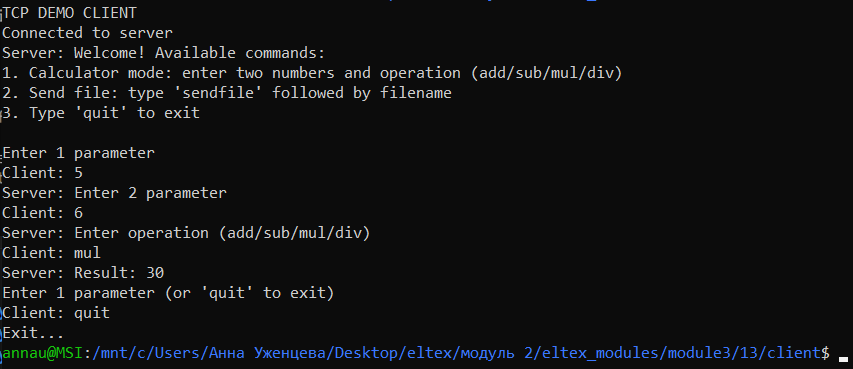
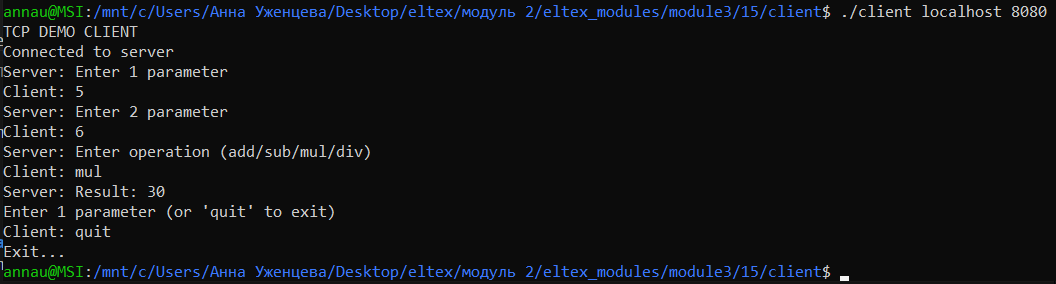
13

Changed region(s): [[0.0, 0.0, 1.0, 0.9859]]

diff --git a/module3/13/server/tcp_server.c b/module3/13/server/tcp_server.c
@@ -9,17 +9,13 @@
 #include <arpa/inet.h>
 #include <fcntl.h>
 
-// функция обслуживания подключившихся пользователей
 void dostuff(int);
-// функция обработки ошибок
 void error(const char *msg) {
     perror(msg);
     exit(1);
 }
-// количество активных пользователей
 int nclients = 0;
 
-// печать количества активных пользователей
 void printusers() {
     if (nclients) {
         printf("%d user on-line\n", nclients);
@@ -28,13 +24,11 @@ void printusers() {
     }
 }
 
-// функция обработки данных
 int add_func(int a, int b) { return a + b; }
 int sub_func(int a, int b) { return a - b; }
 int mul_func(int a, int b) { return a * b; }
 int div_func(int a, int b) { return a / b; }
 
-// функция для приема файла
 void receive_file(int sock, const char* filename) {
     FILE *file = fopen(filename, "wb");
     if (!file) {
@@ -46,14 +40,13 @@ void receive_file(int sock, const char* filename) {
     char buffer[4096];
     ssize_t bytes_received;
     long file_size;
-    
-    // Получаем размер файла
+
     if (recv(sock, &file_size, sizeof(file_size), 0) <= 0) {
         fclose(file);
         return;
     }
     
-    send(sock, "READY", 5, 0);  // Подтверждаем готовность принять файл
+    send(sock, "READY", 5, 0);
     
     long total_received = 0;
     while (total_received < file_size) {
@@ -70,48 +63,42 @@ void receive_file(int sock, const char* filename) {
 }
 
 int main(int argc, char *argv[]) {
-    int sockfd, newsockfd; // дескрипторы сокетов
-    int portno;            // номер порта
-    int pid;               // id номер потока
-    socklen_t clilen; // размер адреса клиента типа socklen_t
-    struct sockaddr_in serv_addr, cli_addr; // структура сокета сервера и клиента
+    int sockfd, newsockfd;
+    int portno;
+    int pid;
+    socklen_t clilen;
+    struct sockaddr_in serv_addr, cli_addr;
     
     printf("TCP SERVER DEMO\n");
     
-    // ошибка в случае если мы не указали порт
     if (argc < 2) {
         fprintf(stderr, "ERROR, no port provided\n");
         exit(1);
     }
     
-    // Шаг 1 - создание сокета
     sockfd = socket(AF_INET, SOCK_STREAM, 0);
     if (sockfd < 0)
         error("ERROR opening socket");
     
-    // Шаг 2 - связывание сокета с локальным адресом
     bzero((char *)&serv_addr, sizeof(serv_addr));
     portno = atoi(argv[1]);
     serv_addr.sin_family = AF_INET;
-    serv_addr.sin_addr.s_addr = INADDR_ANY; // сервер принимает подключения на все IP-адреса
+    serv_addr.sin_addr.s_addr = INADDR_ANY;
     serv_addr.sin_port = htons(portno);
     
     if (bind(sockfd, (struct sockaddr *)&serv_addr, sizeof(serv_addr)) < 0)
         error("ERROR on binding");
     
-    // Шаг 3 - ожидание подключений, размер очереди - 5
     listen(sockfd, 5);
     clilen = sizeof(cli_addr);
     
-    // Шаг 4 - извлекаем сообщение из очереди (цикл извлечения запросов на подключение)
     while (1) {
         newsockfd = accept(sockfd, (struct sockaddr *)&cli_addr, &clilen);
         if (newsockfd < 0)
             error("ERROR on accept");
         
         nclients++;
-        
-        // вывод сведений о клиенте
+
         printf("+[%s:%d] new connect!\n", inet_ntoa(cli_addr.sin_addr), ntohs(cli_addr.sin_port));
         printusers();
         
@@ -133,18 +120,9 @@ int main(int argc, char *argv[]) {
 }
 
 void dostuff(int sock) {
-    int bytes_recv; // размер принятого сообщения
-    int a, b;       // переменные для функций
+    int bytes_recv; 
+    int a, b; 
     char buff[1024];
-    
-    // Отправляем приветствие и список команд
-    char *welcome_msg = "Welcome! Available commands:\n"
-                        "1. Calculator mode: enter two numbers and operation (add/sub/mul/div)\n"
-                        "2. Send file: type 'sendfile' followed by filename\n"
-                        "3. Type 'quit' to exit\n\n"
-                        "Enter 1 parameter\r\n";
-    
-    send(sock, welcome_msg, strlen(welcome_msg), 0);
     
     while (1) {
         bzero(buff, sizeof(buff));
@@ -156,33 +134,26 @@ void dostuff(int sock) {
         
         buff[bytes_recv] = '\0';
         
-        // Убираем символ новой строки в конце
         if (buff[strlen(buff)-1] == '\n') {
             buff[strlen(buff)-1] = '\0';
         }
         
-        // Проверка на quit
         if (strcmp(buff, "quit") == 0) {
-            send(sock, "Goodbye!\n", 9, 0);
             break;
         }
         
-        // Проверка на команду отправки файла
         if (strncmp(buff, "sendfile ", 9) == 0) {
             char filename[256];
             strcpy(filename, buff + 9);
             send(sock, "READY to receive file\n", 22, 0);
             receive_file(sock, filename);
             
-            // Возвращаемся в режим калькулятора
             send(sock, "File received. Enter 1 parameter\r\n", 35, 0);
             continue;
         }
-        
-        // Режим калькулятора - получаем первый параметр
+
         a = atoi(buff);
         
-        // Запрашиваем второй параметр
         send(sock, "Enter 2 parameter\r\n", 20, 0);
         
         bzero(buff, sizeof(buff));
@@ -193,7 +164,6 @@ void dostuff(int sock) {
         
         b = atoi(buff);
         
-        // Запрашиваем операцию
         send(sock, "Enter operation (add/sub/mul/div)\r\n", 35, 0);
         
         bzero(buff, sizeof(buff));
@@ -233,7 +203,7 @@ void dostuff(int sock) {
         send(sock, "Enter 1 parameter (or 'quit' to exit)\r\n", 40, 0);
     }
     
-    nclients--; // уменьшаем счетчик активных клиентов
+    nclients--;
     printf("-disconnect\n");
     printusers();
     close(sock);

diff --git a/module3/13/client/tcp_client.c b/module3/13/client/tcp_client.c
@@ -14,7 +14,6 @@ void error(const char *msg) {
     exit(0);
 }
 
-// Функция для отправки файла
 void send_file(int sock, const char* filename) {
     FILE *file = fopen(filename, "rb");
     if (!file) {
@@ -23,22 +22,18 @@ void send_file(int sock, const char* filename) {
         return;
     }
     
-    // Получаем размер файла
     fseek(file, 0, SEEK_END);
     long file_size = ftell(file);
     fseek(file, 0, SEEK_SET);
     
-    // Отправляем размер файла
     send(sock, &file_size, sizeof(file_size), 0);
     
-    // Ждем подтверждения от сервера
     char ack[10];
     if (recv(sock, ack, sizeof(ack), 0) <= 0) {
         fclose(file);
         return;
     }
     
-    // Отправляем файл
     char buffer[4096];
     size_t bytes_read;
     long total_sent = 0;
@@ -67,39 +62,31 @@ int main(int argc, char *argv[]) {
         exit(0);
     }
     
-    // извлечение порта
     portno = atoi(argv[2]);
     
-    // Шаг 1 - создание сокета
     my_sock = socket(AF_INET, SOCK_STREAM, 0);
     if (my_sock < 0)
         error("ERROR opening socket");
     
-    // извлечение хоста
     server = gethostbyname(argv[1]);
     if (server == NULL) {
         fprintf(stderr, "ERROR, no such host\n");
         exit(0);
     }
     
-    // заполнение структуры serv_addr
     bzero((char *)&serv_addr, sizeof(serv_addr));
     serv_addr.sin_family = AF_INET;
     bcopy((char *)server->h_addr, (char *)&serv_addr.sin_addr.s_addr,
           server->h_length);
     
-    // установка порта
     serv_addr.sin_port = htons(portno);
     
-    // Шаг 2 - установка соединения
     if (connect(my_sock, (struct sockaddr *)&serv_addr, sizeof(serv_addr)) < 0)
         error("ERROR connecting");
     
     printf("Connected to server\n");
     
-    // Шаг 3 - чтение и передача сообщений
     while (1) {
-        // Получаем сообщение от сервера
         bzero(buff, sizeof(buff));
         n = recv(my_sock, &buff[0], sizeof(buff) - 1, 0);
         
@@ -111,7 +98,6 @@ int main(int argc, char *argv[]) {
         buff[n] = 0;
         printf("Server: %s", buff);
         
-        // Читаем пользовательский ввод
         printf("Client: ");
         fflush(stdout);
         
@@ -120,12 +106,10 @@ int main(int argc, char *argv[]) {
             break;
         }
         
-        // Убираем символ новой строки
         if (buff[strlen(buff)-1] == '\n') {
             buff[strlen(buff)-1] = '\0';
         }
         
-        // Проверка на "quit"
         if (strcmp(&buff[0], "quit") == 0) {
             printf("Exit...\n");
             send(my_sock, "quit", 4, 0);
@@ -133,15 +117,12 @@ int main(int argc, char *argv[]) {
             return 0;
         }
         
-        // Проверка на команду отправки файла
         if (strncmp(&buff[0], "sendfile ", 9) == 0) {
             char filename[256];
             strcpy(filename, &buff[9]);
             
-            // Отправляем команду серверу
             send(my_sock, &buff[0], strlen(&buff[0]), 0);
             
-            // Ждем подтверждения от сервера
             bzero(buff, sizeof(buff));
             n = recv(my_sock, &buff[0], sizeof(buff) - 1, 0);
             if (n > 0) {
@@ -149,12 +130,10 @@ int main(int argc, char *argv[]) {
                 printf("Server: %s", buff);
             }
             
-            // Отправляем файл
             send_file(my_sock, filename);
             continue;
         }
         
-        // Отправляем обычное сообщение серверу
         send(my_sock, &buff[0], strlen(&buff[0]), 0);
     }
     
